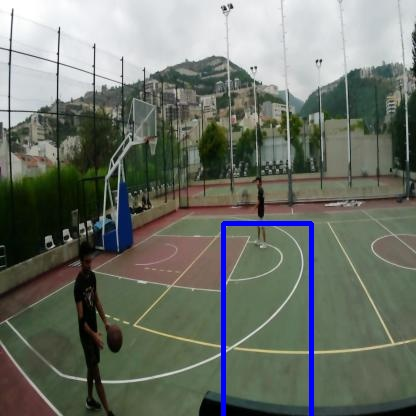
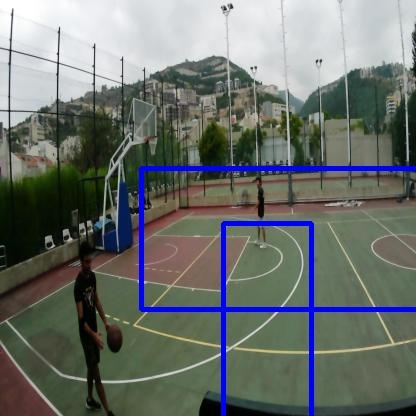
really fingers crossed

Changed region(s): [[0.3125, 0.375, 1.0, 0.75]]

diff --git a/yolov8_detection.py b/yolov8_detection.py
@@ -110,10 +110,11 @@ for detection in detections:
     confidence1 = detection['class1_confidence']
     confidence2 = detection['class2_confidence']
 
-    if confidence1>0.2 or confidence2 >0.2:
+    if confidence1>0.1 or confidence2 >0.1:
         filtered_detections.append(detection)
 
 print(len(filtered_detections))
+print(filtered_detections)
 
 # scale coordinates according to image
 pad_w, pad_h = pad
@@ -127,10 +128,10 @@ color =  (255, 0, 0)
 thickness = 3
 
 for filtered_detection in filtered_detections:
-    x1 = int(filtered_detections[0]['x']*in_w*ratio_w)
-    y1 = int(filtered_detections[0]['y']*in_h*ratio_h)
-    x2 = int((filtered_detections[0]['x'] + filtered_detections[0]['width'])*in_w*ratio_w)
-    y2 = int((filtered_detections[0]['y'] + filtered_detections[0]['height'])*in_h*ratio_h)
+    x1 = int(filtered_detection['x']*in_w*ratio_w)
+    y1 = int(filtered_detection['y']*in_h*ratio_h)
+    x2 = int((filtered_detection['x'] + filtered_detection['width'])*in_w*ratio_w)
+    y2 = int((filtered_detection['y'] + filtered_detection['height'])*in_h*ratio_h)
 
     cv2.rectangle(img, (x1, y1), (x2, y2), color, thickness)
 
